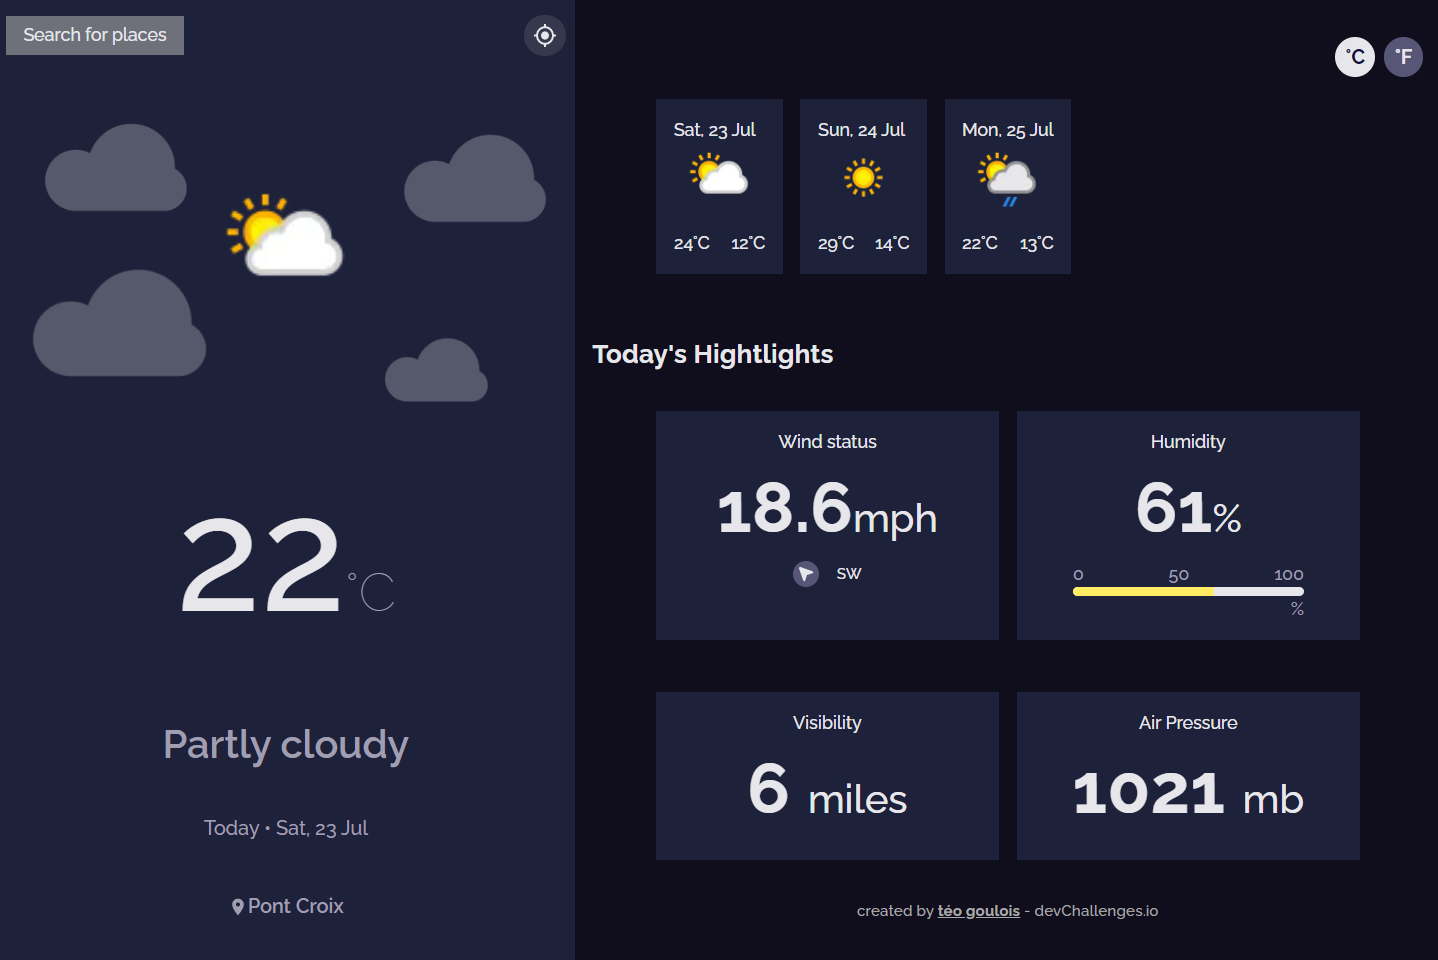
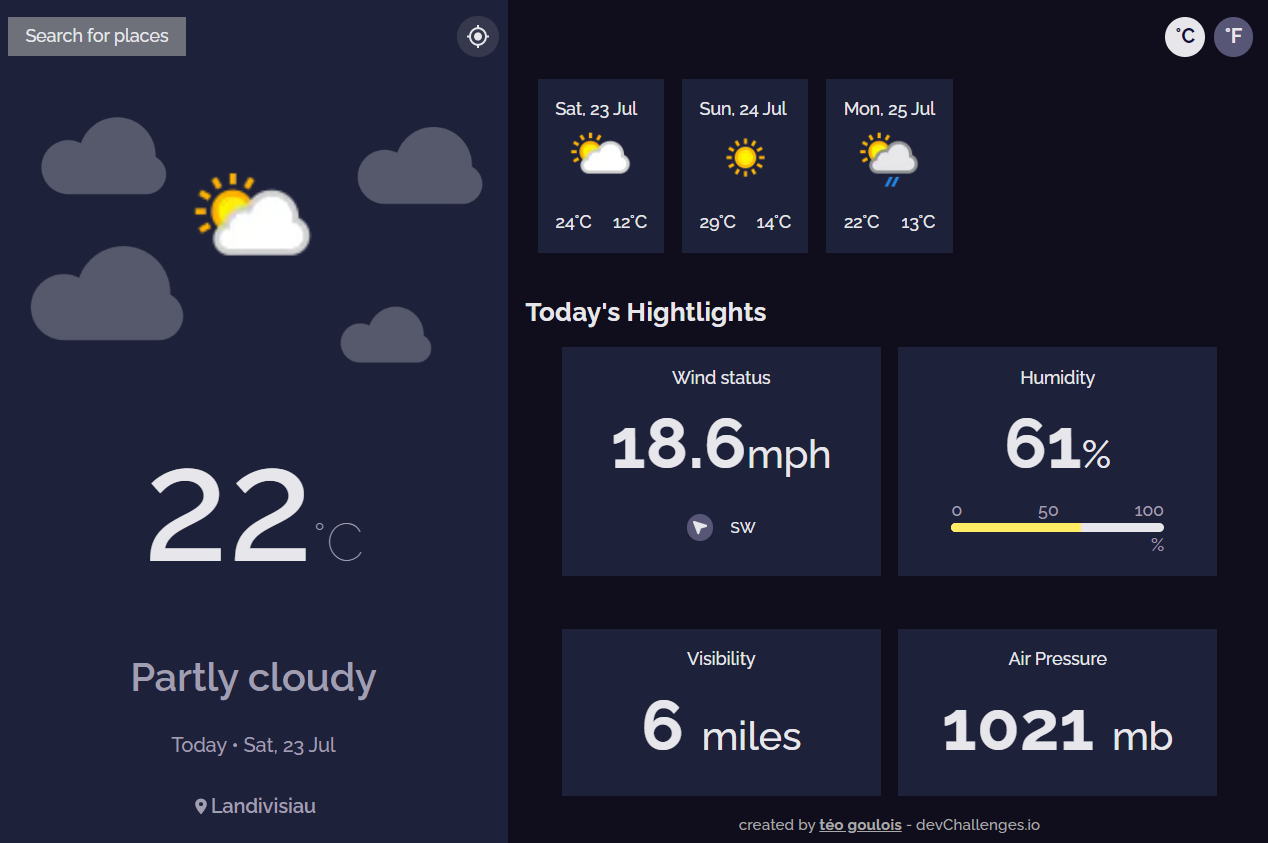
v2

diff --git a/components/hightlights/Hightlights.tsx b/components/hightlights/Hightlights.tsx
@@ -11,7 +11,7 @@ const Hightlights = () => {
     <div className="px-4 md:h-[65%] relative">
       <h1 className="text-primary text-2xl font-bold">Today's Hightlights</h1>
       <div className="flex justify-center items-center">
-        <div className="grid grid-cols-1 md:grid-cols-2 w-full md:w-[90%] gap-4 p-5">
+        <div className="grid grid-cols-1 md:grid-cols-2 w-full md:w-[90%] gap-4 pb-4 md:pd-0">
           <NormalItem
             title="Wind status"
             label="mph"
@@ -37,7 +37,7 @@ const Hightlights = () => {
             number={weatherInfos?.current.pressure_mb}
           />
         </div>
-        <p className="absolute bottom-2 md:bottom-10 text-[#A9A9A9] text-sm font-medium text-center">
+        <p className="absolute bottom-2 text-[#A9A9A9] text-sm font-medium text-center">
           created by <span className="font-bold underline">téo goulois</span> -
           devChallenges.io
         </p>

diff --git a/context/WeatherContext.tsx b/context/WeatherContext.tsx
@@ -1,3 +1,4 @@
+import axios from "axios";
 import {
   createContext,
   Dispatch,
@@ -43,9 +44,21 @@ export const WeatherProvider = ({ children }: ProviderProps) => {
     if (navigator.geolocation) {
       getcurrentLoc(setWeatherInfos);
     } else {
+      getWeatherInfo();
       alert("Geolocation is not supported by this browser.");
     }
   }, []);
+
+  const getWeatherInfo = async () => {
+    const response = await axios({
+      method: "post",
+      url: "/api/posts",
+      data: {
+        location: "Paris, france",
+      },
+    });
+    setWeatherInfos(response.data.weatherDatas);
+  };
 
   const value = {
     searchBarIsOpen,

diff --git a/components/searchBar/SearchModal.tsx b/components/searchBar/SearchModal.tsx
@@ -13,7 +13,6 @@ import SearchResultButton from "./SearchResultButton";
 import { WeatherSearchType } from "../../constants/types/Types";
 
 type Props = {};
-const test = [1, 2, 3];
 const variants = {
   open: { opacity: 1, transform: "translateX(0%)" },
   closed: { opacity: 0, transform: "translateX(-100%)" },
@@ -65,12 +64,5 @@ const SearchModal = ({}: Props) => {
   );
 };
 
-/* 
-searchResults.map((result) => {
-          console.log(result.region);
-
-          return <SearchResultButton key={result.id} item={result} />;
-        })
-*/
 
 export default SearchModal;

diff --git a/components/hightlights/NormalItem.tsx b/components/hightlights/NormalItem.tsx
@@ -31,7 +31,7 @@ const NormalItem = ({ title, number, label, windDirection }: Props) => {
       {/* additional info */}
       {/* wind direction */}
       {title === "Wind status" && (
-        <div className="flex items-center">
+        <div className="flex items-center h-full">
           <div
             style={{ transform: `rotate(${windDirection?.wind_degree})` }}
             className="text-primary bg-dark-gray p-1 rounded-full flex items-center justify-center"

diff --git a/hooks/Hooks.tsx b/hooks/Hooks.tsx
@@ -2,8 +2,6 @@ import { WeatherType } from "../constants/types/Types";
 import axios from "axios";
 
 export const getcurrentLoc = async (setLoc: (json: WeatherType) => void) => {
-  console.log("get current loc");
-
   const position: any = await getPosition();
   const { latitude, longitude } = position.coords as {
     latitude: number;

diff --git a/components/forecast/Item.tsx b/components/forecast/Item.tsx
@@ -24,8 +24,6 @@ const Item = ({ weather }: Props) => {
         <Image
           className="object-contain"
           layout="fill"
-          /* width={"56.44px"}
-          height={"62px"} */
           src={`http:${weather.day.condition.icon}`}
           alt={weather.day.condition.text}
         />

diff --git a/components/forecast/Forecast.tsx b/components/forecast/Forecast.tsx
@@ -7,7 +7,6 @@ import CelciusButton from "../buttons/CelciusButton";
 
 const Forecast = () => {
   const { weatherInfos } = useContext(WeatherContext);
-  console.log(weatherInfos);
 
   return (
     <div className=" flex flex-col items-center justify-center md:h-[35%]">
